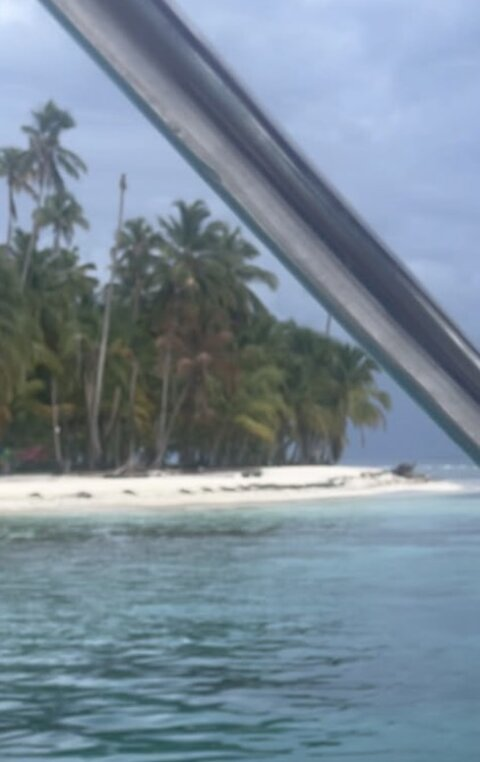
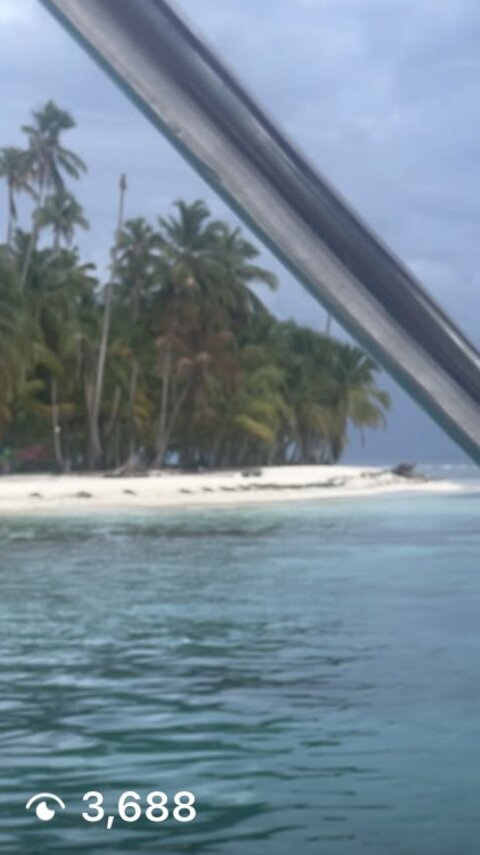
Sync: remove Track & Field, restore view-count overlays
Claude-Session: https://claude.ai/code/session_01QbWSJ4m6DaLrBPjjbyB7xX

diff --git a/index.html b/index.html
@@ -79,9 +79,9 @@
           I'm Dan, from England &mdash; previously based in Rio de Janeiro, now based
           in London. I'm a content and UGC creator who films, edits, and presents
           short-form video for Instagram and TikTok. In Brazil, I created paid UGC for
-          brands including Naveia, Track &amp; Field, and ASA A&ccedil;a&iacute;, plus
-          high-end restaurants like Gurum&ecirc;, alongside building my own content
-          brand, @dansdigitaldiaries, through street interviews and highlight reels.
+          brands including Naveia and ASA A&ccedil;a&iacute;, plus high-end restaurants
+          like Gurum&ecirc;, alongside building my own content brand,
+          @dansdigitaldiaries, through street interviews and highlight reels.
         </p>
         <p class="about-body">
           I'm also the founder and host of Common Ground, a 250+ member social club
@@ -99,7 +99,6 @@
           <span>Coffee Shops &amp; Restaurants</span>
           <span>Hotels &amp; Travel</span>
           <span>Food &amp; Beverage</span>
-          <span>Fashion &amp; Retail</span>
         </div>
       </div>
     </section>
